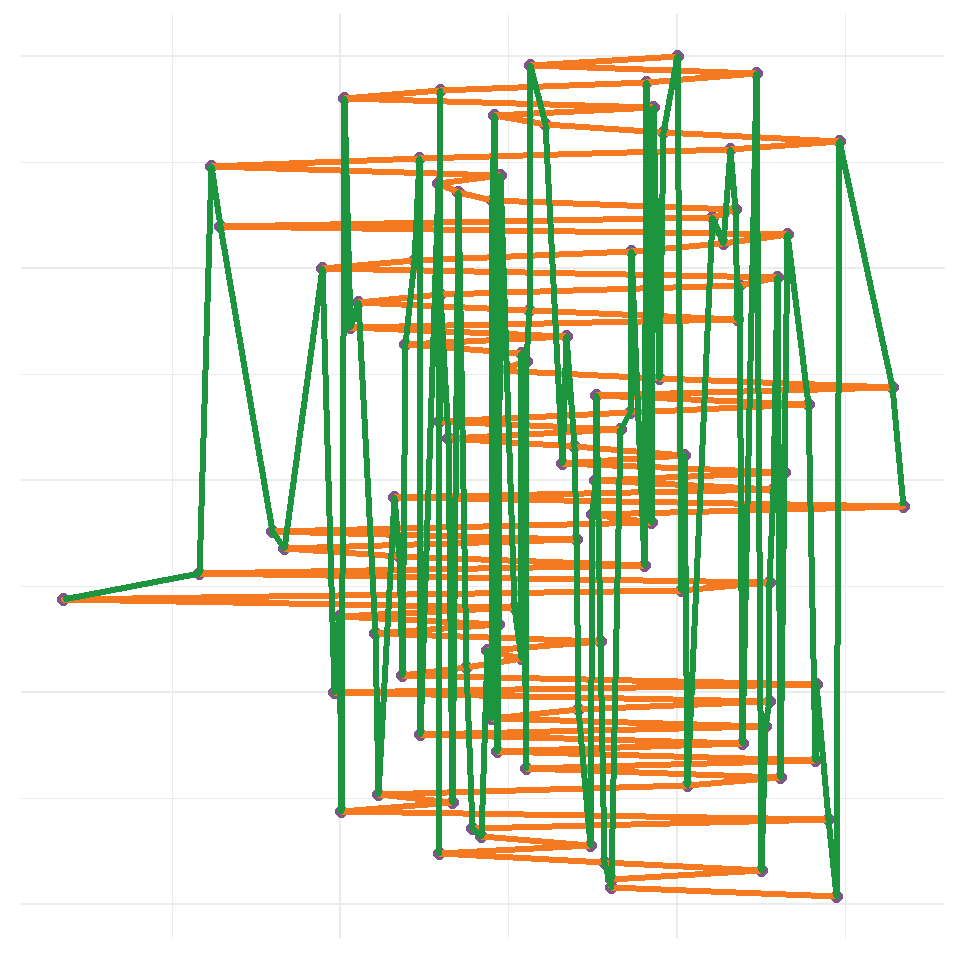
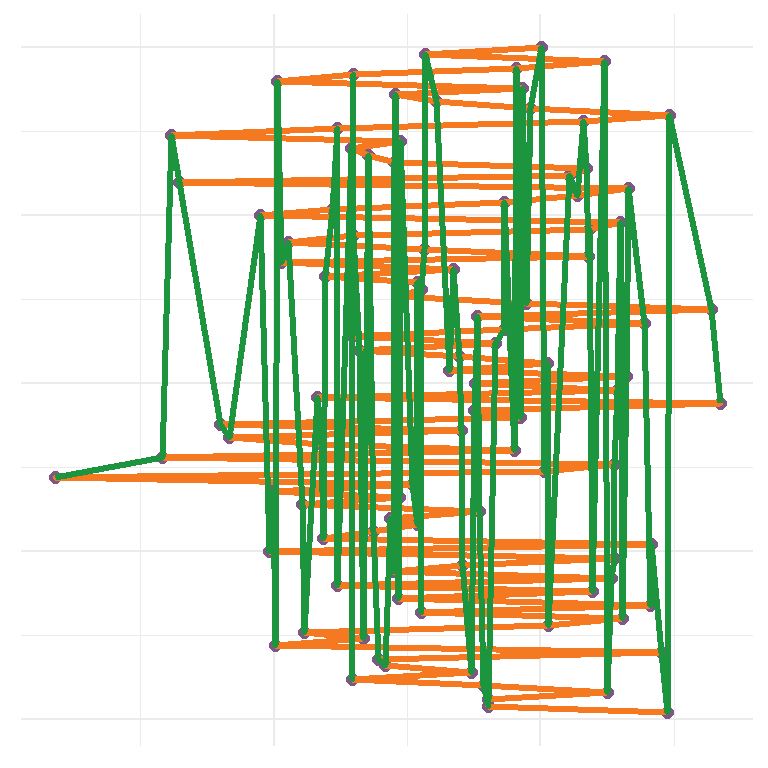
12130136

Changed region(s): [[0.0625, 0.0312, 0.9688, 0.9375]]

diff --git a/index.html b/index.html
@@ -353,7 +353,7 @@ $(document).ready(function () {
 <p><br/><br/></p>
 <div id="wow-welcome-to-my-world" class="section level1">
 <h1>Wow, welcome to my world!</h1>
-<p><br/><br/> <img src="index_files/figure-html/unnamed-chunk-1-1.png" width="480" /></p>
+<p><br/><br/> <img src="index_files/figure-html/unnamed-chunk-1-1.png" width="384" /></p>
 </div>
 
 
